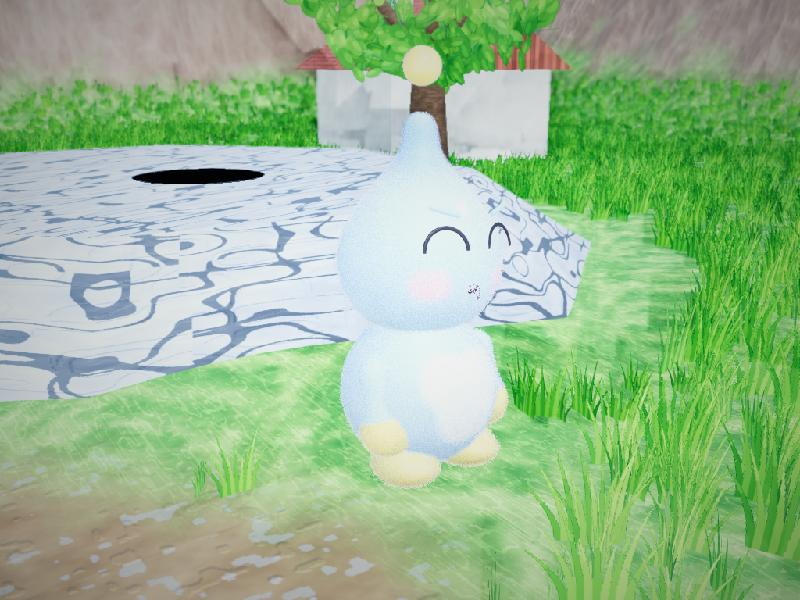
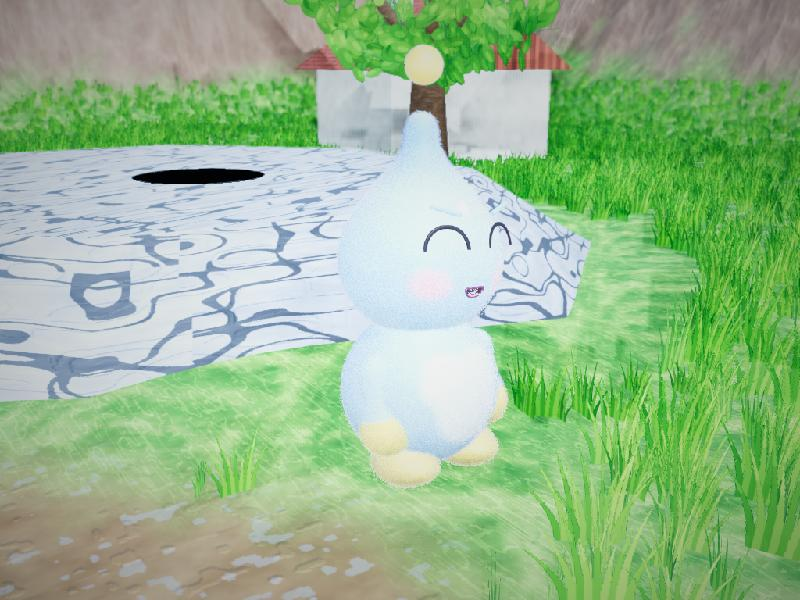
Open mouth drawn on the skin: half-disc opening, upper lip, tongue, flat teeth

diff --git a/src/samples/species.ts b/src/samples/species.ts
@@ -235,51 +235,6 @@ function buildMouth(parent: THREE.Object3D, m: SpeciesSpec['mouth']): Mouth {
   g.position.set(m.x, m.y, m.z);
   g.rotation.x = m.pitch ?? 0;
   const w = m.width;
-  const interior = add(
-    g,
-    new THREE.Mesh(
-      new THREE.SphereGeometry(1, 28, 18),
-      new THREE.MeshPhysicalMaterial({ color: '#3a1424', roughness: 0.7 }),
-    ),
-    0,
-    0,
-    -w * 0.42,
-  );
-  interior.scale.set(w * 0.5, w * 0.03, w * 0.44);
-  interior.castShadow = false;
-  const tongue = add(
-    g,
-    new THREE.Mesh(
-      new THREE.SphereGeometry(1, 16, 12),
-      glossy(m.tongue, { roughness: 0.35, clearcoat: 0.6 }),
-    ),
-    0,
-    -w * 0.1,
-    -w * 0.3,
-  );
-  tongue.scale.set(w * 0.26, w * 0.08, w * 0.3);
-  tongue.visible = false;
-  tongue.castShadow = false;
-  const teeth: THREE.Mesh[] = [];
-  if (m.teeth) {
-    for (const dx of [-0.6, 0.6]) {
-      const t = add(
-        g,
-        new THREE.Mesh(
-          new THREE.ConeGeometry(w * 0.06, w * 0.16, 6),
-          new THREE.MeshPhysicalMaterial({ color: '#fbf6ea', roughness: 0.3 }),
-        ),
-        dx * w * 0.5,
-        w * 0.04,
-        -w * 0.12,
-      );
-      t.rotation.x = Math.PI;
-      t.visible = false;
-      t.castShadow = false;
-      teeth.push(t);
-    }
-  }
-  // The lip line lies on the surface; it widens into a ring as the mouth opens.
   const lipMat = new THREE.MeshPhysicalMaterial({ color: m.lip, roughness: 0.6 });
   // The closed shape: one smile arc, a small ring, or two cat arcs side by side.
   const lip = new THREE.Group();
@@ -306,31 +261,82 @@ function buildMouth(parent: THREE.Object3D, m: SpeciesSpec['mouth']): Mouth {
     a.castShadow = false;
   }
   g.add(lip);
-  const lower = add(
-    g,
-    new THREE.Mesh(new THREE.TorusGeometry(w * 0.47, w * 0.04, 8, 28, Math.PI), lipMat),
+  // The open mouth is drawn on the skin the way the reference does it: a dark rounded
+  // opening under a straight upper lip, growing downward, with a tongue and teeth inside.
+  const open = new THREE.Group();
+  open.visible = false;
+  g.add(open);
+  const halfDisc = (
+    radius: number,
+    color: string,
+    z: number,
+    extra: Partial<THREE.MeshPhysicalMaterialParameters> = {},
+  ) => {
+    const mesh = add(
+      open,
+      new THREE.Mesh(
+        new THREE.CircleGeometry(radius, 24, Math.PI, Math.PI),
+        new THREE.MeshPhysicalMaterial({ color, roughness: 0.7, ...extra }),
+      ),
+      0,
+      w * 0.02,
+      z,
+    );
+    mesh.castShadow = false;
+    return mesh;
+  };
+  const interior = halfDisc(w * 0.5, '#3a1424', 0.004);
+  const rim = add(
+    open,
+    new THREE.Mesh(new THREE.TorusGeometry(w * 0.5, w * 0.045, 8, 28, Math.PI), lipMat),
     0,
     w * 0.02,
-    -w * 0.03,
+    0.004,
   );
-  lower.rotation.z = Math.PI;
-  lower.castShadow = false;
-  lower.visible = false;
+  rim.rotation.z = Math.PI;
+  rim.castShadow = false;
+  const upper = add(
+    open,
+    new THREE.Mesh(new THREE.CapsuleGeometry(w * 0.045, w * 1.0, 3, 8), lipMat),
+    0,
+    w * 0.02,
+    0.004,
+  );
+  upper.rotation.z = Math.PI / 2;
+  upper.castShadow = false;
+  const tongue = halfDisc(w * 0.3, m.tongue, 0.008, { roughness: 0.4, clearcoat: 0.5 });
+  const teeth: THREE.Mesh[] = [];
+  if (m.teeth) {
+    for (const dx of [-0.32, 0.32]) {
+      const t = add(
+        open,
+        new THREE.Mesh(
+          new THREE.ConeGeometry(w * 0.055, w * 0.14, 3),
+          new THREE.MeshPhysicalMaterial({ color: '#fbf6ea', roughness: 0.3 }),
+        ),
+        dx * w,
+        w * 0.02 - w * 0.07,
+        0.007,
+      );
+      t.rotation.z = Math.PI;
+      t.castShadow = false;
+      teeth.push(t);
+    }
+  }
   parent.add(g);
   return {
     group: g,
     open: (amount) => {
       const k = THREE.MathUtils.clamp(amount, 0, 1);
-      interior.scale.y = w * (0.03 + k * 0.34);
-      interior.position.y = -w * k * 0.16;
-      // The closed shape gives way to the open ring as the mouth opens.
-      lip.visible = k < 0.3;
-      lower.visible = k > 0.04;
-      lower.position.y = w * 0.02 - k * w * 0.34;
-      lower.rotation.z = Math.PI + k * Math.PI;
-      lower.scale.set(1, 0.2 + k * 0.8, 1);
-      tongue.visible = k > 0.25;
-      tongue.position.y = -w * (0.1 + k * 0.2);
+      // The closed shape gives way to the opening as the mouth opens.
+      lip.visible = k < 0.2;
+      open.visible = k >= 0.2;
+      const h = 0.15 + k * 0.95;
+      interior.scale.set(1, h, 1);
+      rim.scale.set(1, h, 1);
+      tongue.visible = k > 0.35;
+      tongue.scale.set(1, Math.max(0.05, (k - 0.35) * 1.2), 1);
+      tongue.position.y = w * 0.02 - w * 0.5 * h + w * 0.3 * tongue.scale.y;
       for (const t of teeth) t.visible = k > 0.3;
     },
   };

diff --git a/PROGRESS.md b/PROGRESS.md
@@ -30,6 +30,11 @@ report back": the face group (items 1, 2, 4, 5, 6, 7) on the Nubbin.
 - Fix (Maor: happy frames "look weird"): the lids over the dome left the iris peeking out
   under a floating arc. A happy shut eye now hides the whole eyeball and lids so the
   head's skin shows, and the lash arc sits on the skin (`EyeRig.ball`).
+- Fix (Maor: "fix the mouth too"): the open mouth was a 3D interior sphere, a flipping
+  lip ring and a tongue blob, which at 0.2 units read as a scribble. It is now drawn on
+  the skin like the reference: a dark half-disc opening under a straight upper lip that
+  grows downward with the open amount, a rim, a tongue half-disc and flat teeth.
+  `expr-fennel-happy.jpg` shows it with teeth.
 - Still open in the face group: eye tracking (item 3). The other four creatures get the
   same rig automatically but have not been tuned (brows on Bolder/Wisp may want hiding).
 
